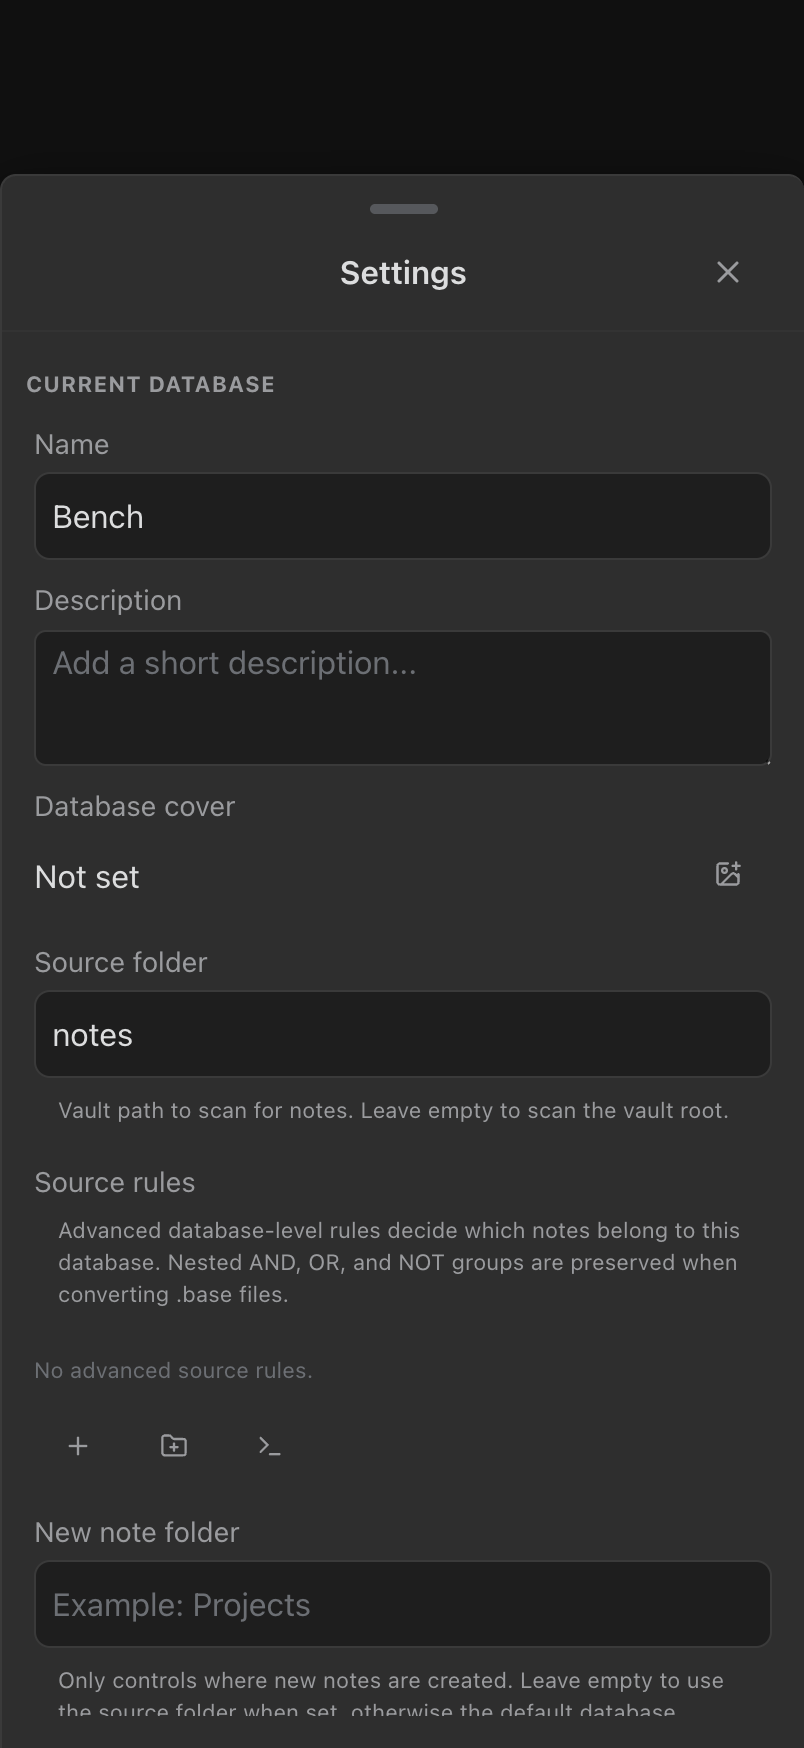
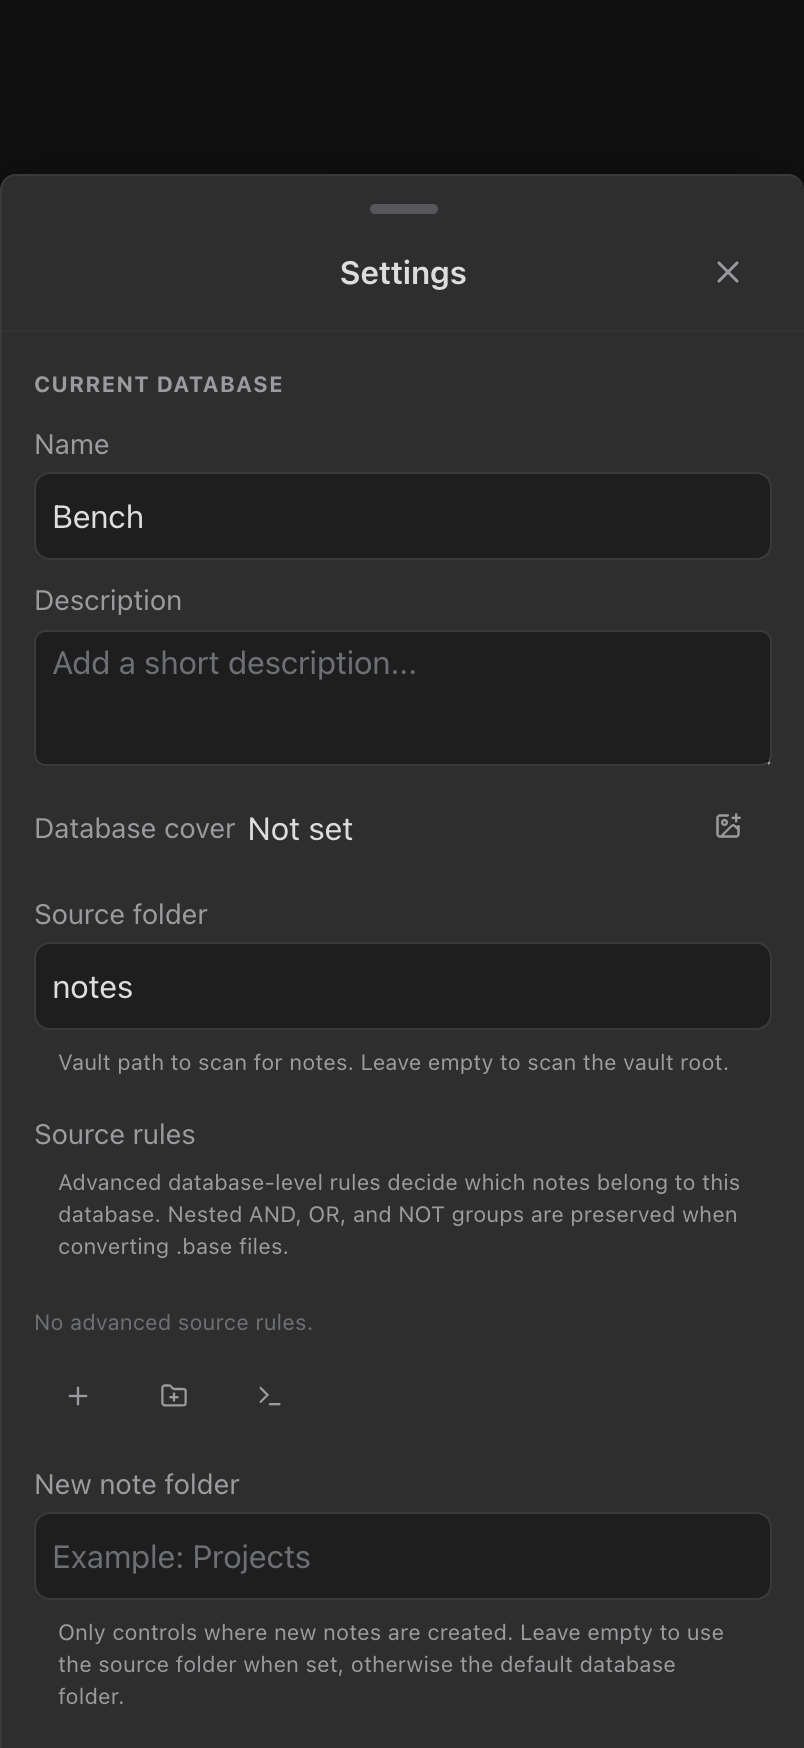
feat(styles): collapse settings-sheet control rows to the Notion single line
Control rows (dropdown/checkbox/switch/summary/readonly) render one line —
label left, control right — at a 48px pitch; the column override now applies
only to editor rows via the field-variant classes the renderer already lands.
Section headings sit 16px in with a 1px divider; the subtle-divider token
falls back to 1px #333333 where the host border token is absent, and the
no-overflow predicate subtracts the sheet's 1px left border so 402px reads
401 == 401, not a border. Captures recaptured (6 pixel-changed, all the
settings view-config family); 2 jitter captures restored with their hashes;
css-lane ledger signed to this lane: baselineHash 368631d8cd1f.

Claude-Session: https://claude.ai/code/session_0189jHyPTPhrWEWyeFyaGc9Q

diff --git a/styles.css b/styles.css
@@ -91,7 +91,11 @@
   /* The sheet header's close button and the shell's own back control, so a second edge slot
      added later reads the size the first one already declared instead of repeating "44px". */
   --obnotion-shell-edge-control-size: 44px;
-  --obnotion-border-subtle: color-mix(in srgb, var(--background-modifier-border) 40%, transparent);
+  /* The host's border token carries a fallback: a var() left unresolved inside color-mix turns the
+     whole property back into its initial value, and border-style:initial is none — a divider whose
+     width computes to 0px, invisible anywhere the host theme does not define that token. #333333
+     is the dark-theme border grey these sheets' #1e1e1e backgrounds are drawn against. */
+  --obnotion-border-subtle: color-mix(in srgb, var(--background-modifier-border, #333333) 40%, transparent);
   --obnotion-border-regular: color-mix(in srgb, var(--background-modifier-border) 70%, transparent);
   --obnotion-border-emphasis: var(--background-modifier-border);
   --obnotion-surface-canvas: var(--background-primary);
@@ -12121,17 +12125,26 @@ body.is-phone .obnotion-container .obnotion-record-detail-panel {
    edge.
 
    `.obnotion-panel-row`'s own base is a left-to-right row, correct for the short single-value rows the
-   filter and sort sheets share it for. This sheet's own rows carry a long label, a wide control
-   (a segmented choice, a dropdown paired with a button, a path plus an engine picker) and an
-   explainer paragraph, and splitting that across a label column and a field column on a 390px
-   phone left the label stranded far from a control it barely had room for, the control's own text
-   still squeezed into whatever the label didn't take. Column stacking gives every row's control the
-   sheet's full width instead of a remainder, which is what a wide control or a multi-line option
-   list actually needs to stay inside the sheet at all. */
+   filter and sort sheets share it for. This sheet's rows split two ways, by what their field
+   carries: editors (a segmented choice, a dropdown paired with a button, a path plus an engine
+   picker, an explainer paragraph) keep the control stacked below the label at the sheet's full
+   width, which is what a wide control or a multi-line option list needs to stay inside the sheet
+   at all; every other setting reads as the reference's own one-line row — label left, control
+   right, the 44px touch floor to the reference's top of pitch. Which way a row splits is decided
+   purely by its field, so the split lives in the :has() rule below and the rows themselves share
+   one grammar. */
 .obnotion-view-config-panel.obnotion-mobile-bottom-sheet .obnotion-panel-row {
   padding-inline: var(--obnotion-sheet-inset);
+  justify-content: space-between;
+}
+
+.obnotion-view-config-panel.obnotion-mobile-bottom-sheet .obnotion-panel-row:has(> .obnotion-view-config-field-stack),
+.obnotion-view-config-panel.obnotion-mobile-bottom-sheet .obnotion-panel-row:has(> .obnotion-view-config-inline-controls),
+.obnotion-view-config-panel.obnotion-mobile-bottom-sheet .obnotion-panel-row:has(> .obnotion-view-config-range),
+.obnotion-view-config-panel.obnotion-mobile-bottom-sheet .obnotion-panel-row:has(> .obnotion-view-config-textarea) {
   flex-direction: column;
   align-items: stretch;
+  justify-content: flex-start;
   gap: var(--obnotion-space-2);
 }
 
@@ -12171,20 +12184,36 @@ body.is-phone .obnotion-container .obnotion-record-detail-panel {
   color: var(--text-muted);
 }
 
-/* The field sits on its own line below the label now, so its own children still run left to right
-   — a control beside its own icon, or a dropdown beside its "Manage" button — but the field itself
-   no longer competes with the label for width; it gets the row's full inset-to-inset span. */
+/* Compact rows: the field takes the span right of the label and hugs the row's far inset — a
+   checkbox, a summary count, a value+chevron. Editor stacks re-assert their own alignment further
+   down at the same specificity and later, so they keep theirs. */
 .obnotion-view-config-panel.obnotion-mobile-bottom-sheet .obnotion-view-config-field {
-  justify-content: flex-start;
+  justify-content: flex-end;
   align-items: center;
   gap: var(--obnotion-space-3);
+  flex: 1 1 auto;
+  min-width: 0;
 }
 
-/* `:not(.obnotion-checkbox)` because the row now hands the field its full inset-to-inset width: a
-   checkbox switch is the field's only child on the same shape a dropdown or text input is, and
-   without the exclusion this rule's `flex: 1 1 auto` outranks the checkbox's own fixed `18px`
-   basis on specificity alone, stretching the switch across the whole row instead of leaving it a
-   thumb-sized control at the row's start. */
+/* A compact dropdown's value reads against the chevron at the row's far edge, the reference's
+   value+disclosure pairing, not floating at the pill's left while its box spans the row. The text
+   wrapper goes flex so the value's auto margin can actually reach. */
+.obnotion-view-config-panel.obnotion-mobile-bottom-sheet .obnotion-view-config-dropdown .obnotion-dropdown-field-text {
+  display: flex;
+  align-items: baseline;
+  gap: var(--obnotion-space-2);
+  min-width: 0;
+}
+
+.obnotion-view-config-panel.obnotion-mobile-bottom-sheet .obnotion-view-config-dropdown .obnotion-dropdown-field-value {
+  margin-inline-start: auto;
+}
+
+/* `:not(.obnotion-checkbox)` because the compact field spans right of the label (and an editor's
+   field the full row): a checkbox switch is the field's only child on the same shape a dropdown or
+   text input is, and without the exclusion this rule's `flex: 1 1 auto` outranks the checkbox's own
+   fixed `18px` basis on specificity alone, stretching the switch across the whole row instead of
+   leaving it a thumb-sized control at the row's right edge. */
 .obnotion-view-config-panel.obnotion-mobile-bottom-sheet .obnotion-view-config-field:not(.obnotion-view-config-field-stack) > :first-child:not(.obnotion-checkbox) {
   flex: 1 1 auto;
   min-width: 0;
@@ -12245,10 +12274,11 @@ body.is-phone .obnotion-container .obnotion-record-detail-panel {
    sheet; the sheet-only size bump this class once carried is retired rather than duplicated onto
    the new class. */
 
-/* Section headers sit on the sheet's inset and carry the divider that opens each group. */
+/* Section headers sit on the rows' inset — the same 16px, not the smaller spacing step — so the
+   divider that opens each group runs through the gutters the rows it introduces use. */
 .obnotion-view-config-panel.obnotion-mobile-bottom-sheet .obnotion-view-config-section-title {
   margin: 0;
-  padding: var(--obnotion-space-5) var(--obnotion-space-5) var(--obnotion-space-2);
+  padding: var(--obnotion-space-5) var(--obnotion-sheet-inset) var(--obnotion-space-2);
   border-top: 1px solid var(--obnotion-border-subtle);
 }
 
@@ -12257,7 +12287,7 @@ body.is-phone .obnotion-container .obnotion-record-detail-panel {
 }
 
 .obnotion-view-config-panel.obnotion-mobile-bottom-sheet .obnotion-view-config-readonly-note {
-  margin: var(--obnotion-space-3) var(--obnotion-space-5);
+  margin: var(--obnotion-space-3) var(--obnotion-sheet-inset);
 }
 
 /* Every action inside the sheet is something a thumb has to land on. The two icon buttons here are
